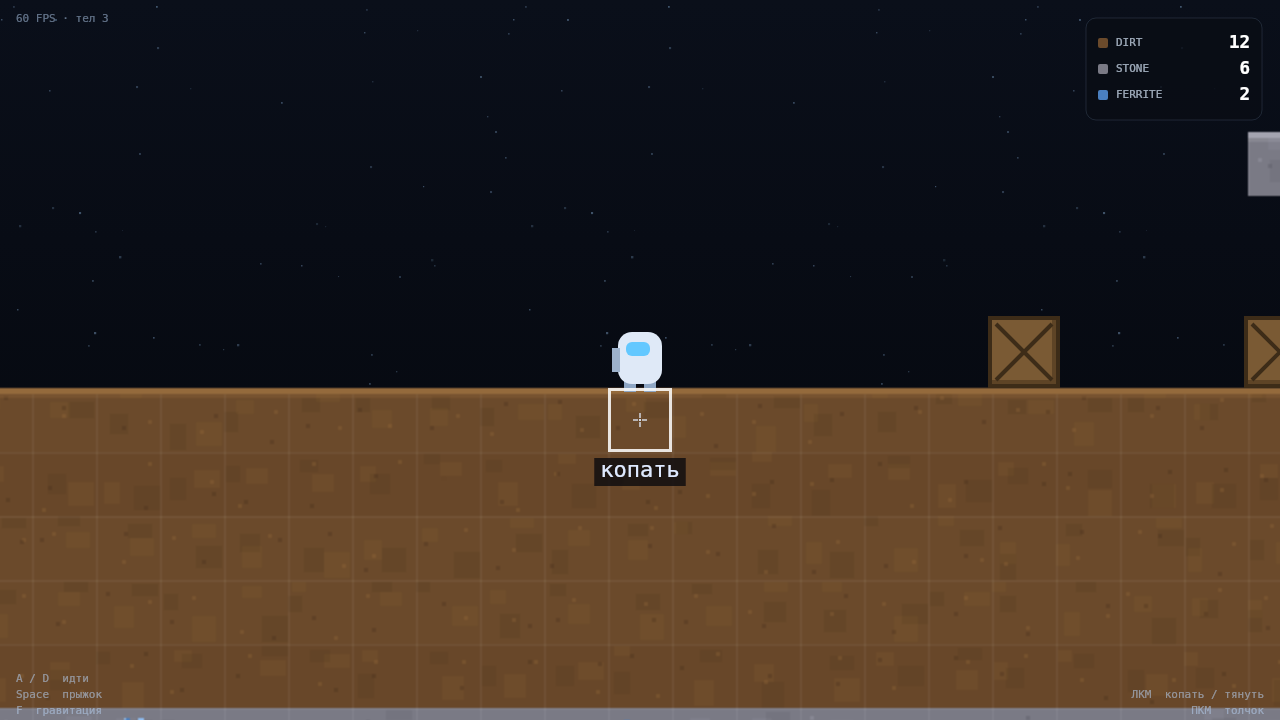
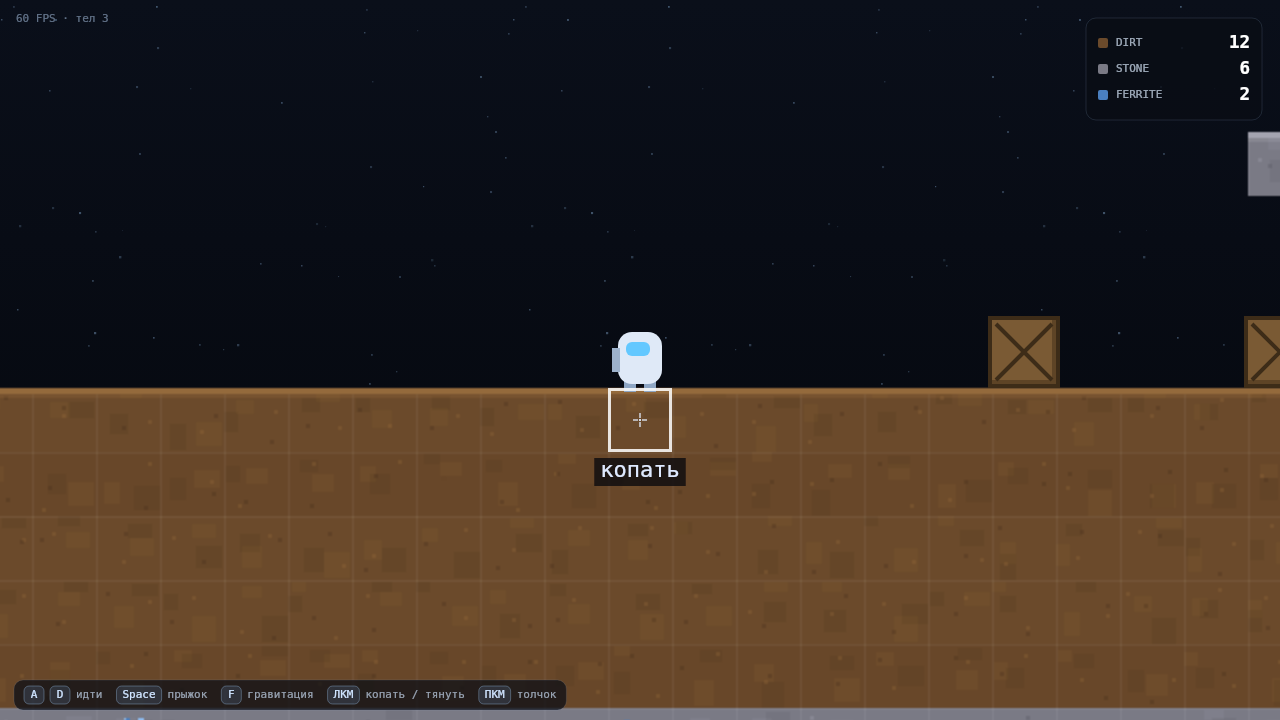
Вернуть подсказки по управлению и автопередачу фокуса клавиатуре
- плашка управления снизу слева: клавиши в рамках, читаемо на любом фоне
- window.focus при загрузке, по наведению и по клику — игра управляется сразу
- index.html передаёт фокус iframe при load/движении мыши/клике

Changed region(s): [[0.0, 0.9167, 0.4688, 1.0], [0.9375, 0.9778, 1.0, 1.0], [0.875, 0.9472, 0.9375, 0.9778]]

diff --git a/gravity-void.html b/gravity-void.html
@@ -972,6 +972,13 @@ class Game {
 
     this.resize();
     window.addEventListener('resize', () => this.resize());
+
+    // Клавиатура должна работать сразу, в том числе внутри iframe:
+    // забираем фокус и по наведению, и по клику, и просто при запуске
+    const grabFocus = () => { try { window.focus(); } catch (e) { /* не критично */ } };
+    canvas.addEventListener('mouseenter', grabFocus);
+    canvas.addEventListener('mousedown', grabFocus);
+    grabFocus();
     this.camera.snap(this.player);
   }
 
@@ -1659,17 +1666,70 @@ class Game {
     ctx.fillStyle = 'rgba(170,195,225,0.55)';
     ctx.fillText(Math.round(this.fps) + ' FPS · тел ' + (this.drops.length + this.crates.length), 16, 14);
 
-    // Подсказка по управлению
-    ctx.fillStyle = 'rgba(170,195,225,0.42)';
+    this.drawControls(ctx);
+  }
+
+  // Плашка управления: слева снизу, клавиши в рамках — видно без инструкции
+  drawControls(ctx) {
+    const items = [
+      ['A', 'D', 'идти'],
+      ['Space', 'прыжок'],
+      ['F', 'гравитация'],
+      ['ЛКМ', 'копать / тянуть'],
+      ['ПКМ', 'толчок']
+    ];
     ctx.font = '11px ' + CFG.render.font;
-    ctx.fillStyle = 'rgba(178,202,232,0.6)';
-    ctx.fillText('A / D  идти', 16, this.vh - 46);
-    ctx.fillText('Space  прыжок', 16, this.vh - 30);
-    ctx.fillText('F  гравитация', 16, this.vh - 14);
-    ctx.textAlign = 'right';
-    ctx.fillText('ЛКМ  копать / тянуть', this.vw - 16, this.vh - 30);
-    ctx.fillText('ПКМ  толчок', this.vw - 16, this.vh - 14);
+    ctx.textBaseline = 'middle';
+
+    const keyH = 18;
+    const gapX = 6;
+    const gapItem = 14;
+    const pad = 10;
+    const y = this.vh - 16 - keyH / 2;
+
+    // сначала измеряем, потом рисуем подложку
+    let width = pad * 2;
+    const layout = [];
+    for (const it of items) {
+      const keys = it.slice(0, it.length - 1);
+      const label = it[it.length - 1];
+      const keyWidths = keys.map(k => Math.max(20, ctx.measureText(k).width + 12));
+      const labelWidth = ctx.measureText(label).width;
+      const w = keyWidths.reduce((a, b) => a + b, 0) + gapX * (keys.length - 1) + 6 + labelWidth;
+      layout.push({ keys, keyWidths, label, w });
+      width += w + gapItem;
+    }
+    width -= gapItem;
+
+    ctx.fillStyle = 'rgba(9,13,21,0.72)';
+    rr(ctx, 14, y - keyH / 2 - 6, width, keyH + 12, 9);
+    ctx.fill();
+    ctx.strokeStyle = 'rgba(150,180,220,0.14)';
+    ctx.lineWidth = 1;
+    ctx.stroke();
+
+    let x = 14 + pad;
+    for (const row of layout) {
+      for (let i = 0; i < row.keys.length; i++) {
+        const kw = row.keyWidths[i];
+        ctx.fillStyle = 'rgba(120,170,230,0.16)';
+        rr(ctx, x, y - keyH / 2, kw, keyH, 5);
+        ctx.fill();
+        ctx.strokeStyle = 'rgba(160,200,240,0.35)';
+        ctx.stroke();
+        ctx.fillStyle = '#cfe4ff';
+        ctx.textAlign = 'center';
+        ctx.fillText(row.keys[i], x + kw / 2, y + 0.5);
+        x += kw + gapX;
+      }
+      x += 6 - gapX;
+      ctx.fillStyle = 'rgba(196,214,236,0.72)';
+      ctx.textAlign = 'left';
+      ctx.fillText(row.label, x, y + 0.5);
+      x += ctx.measureText(row.label).width + gapItem;
+    }
     ctx.textAlign = 'left';
+    ctx.textBaseline = 'top';
   }
 
   /* ---------- цикл ---------- */

diff --git a/index.html b/index.html
@@ -11,5 +11,20 @@
 </head>
 <body>
 <iframe id="game" src="gravity-void.html" title="GRAVITY: VOID" allow="fullscreen"></iframe>
+<script>
+// Клавиатура в iframe работает только при фокусе: отдаём его игре сразу,
+// а также по первому движению мыши и по клику — без отдельного «кликните по игре»
+(function () {
+  var f = document.getElementById('game');
+  function focusGame() {
+    try { f.focus(); f.contentWindow.focus(); } catch (e) { /* не критично */ }
+  }
+  f.addEventListener('load', focusGame);
+  window.addEventListener('mousemove', focusGame);
+  window.addEventListener('mousedown', focusGame);
+  window.addEventListener('keydown', focusGame);
+  focusGame();
+})();
+</script>
 </body>
 </html>

diff --git a/README.md b/README.md
@@ -13,7 +13,7 @@
 
 ## Запуск
 
-- Игра: открыть `index.html` (или кликнуть по её окну, чтобы клавиатура заработала).
+- Игра: открыть `index.html`. Клавиатура подхватывается сразу (фокус передаётся игре при загрузке, по движению мыши и по клику).
 - Ревью: открыть `review.html`.
 
 Управление (как в Milestone 0):
